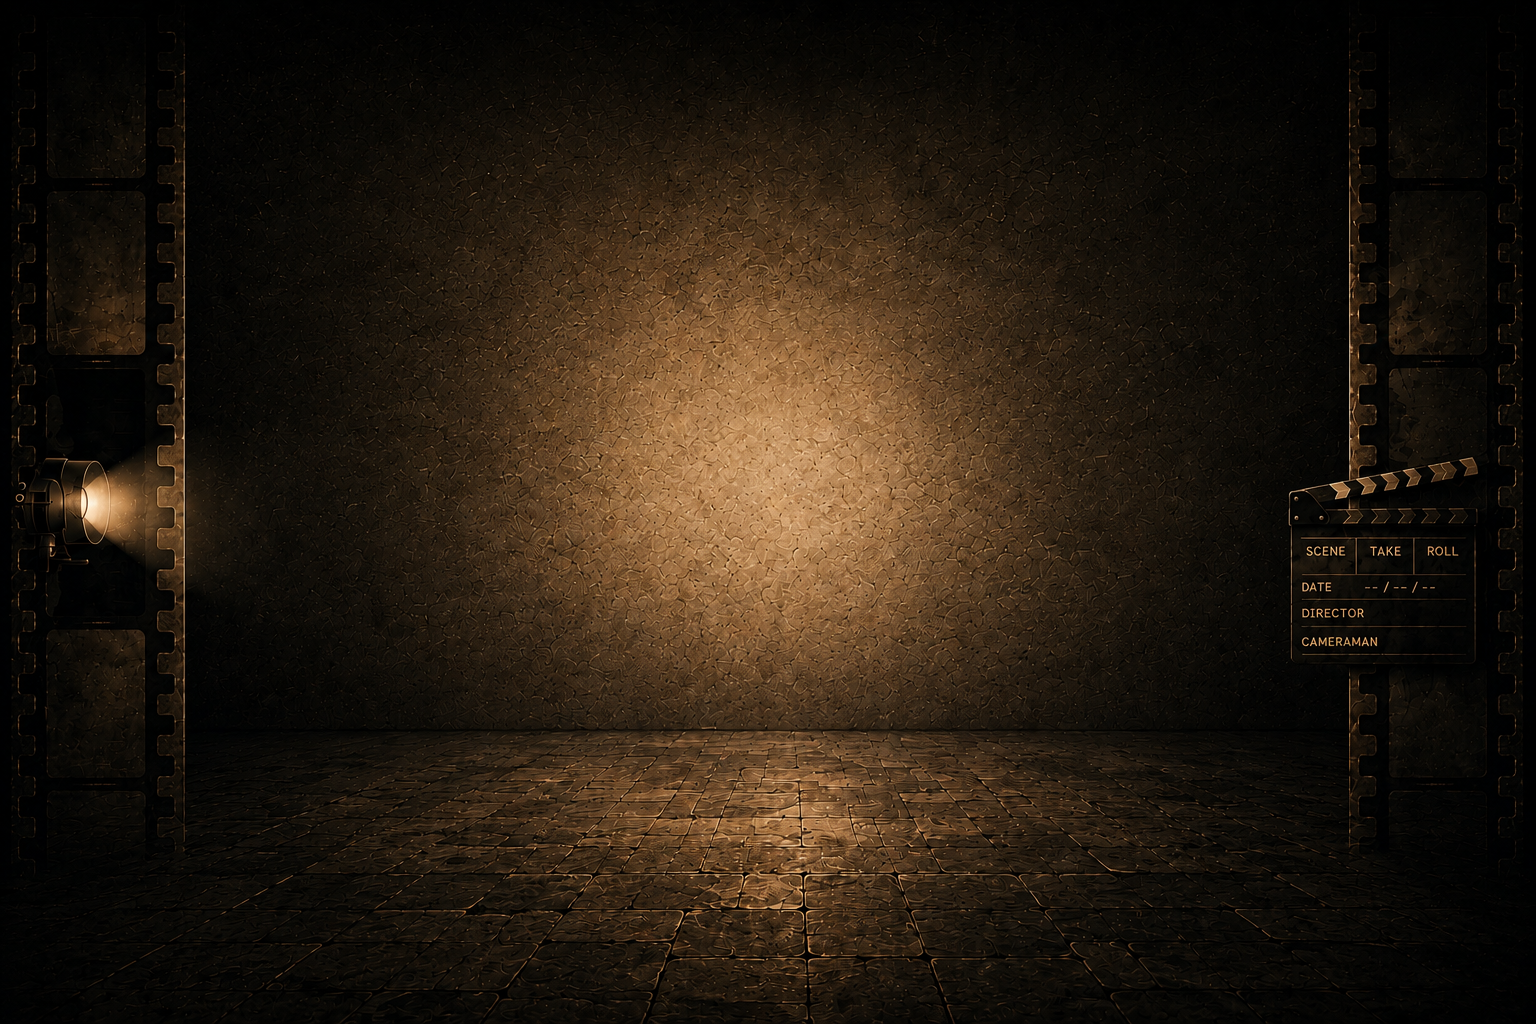
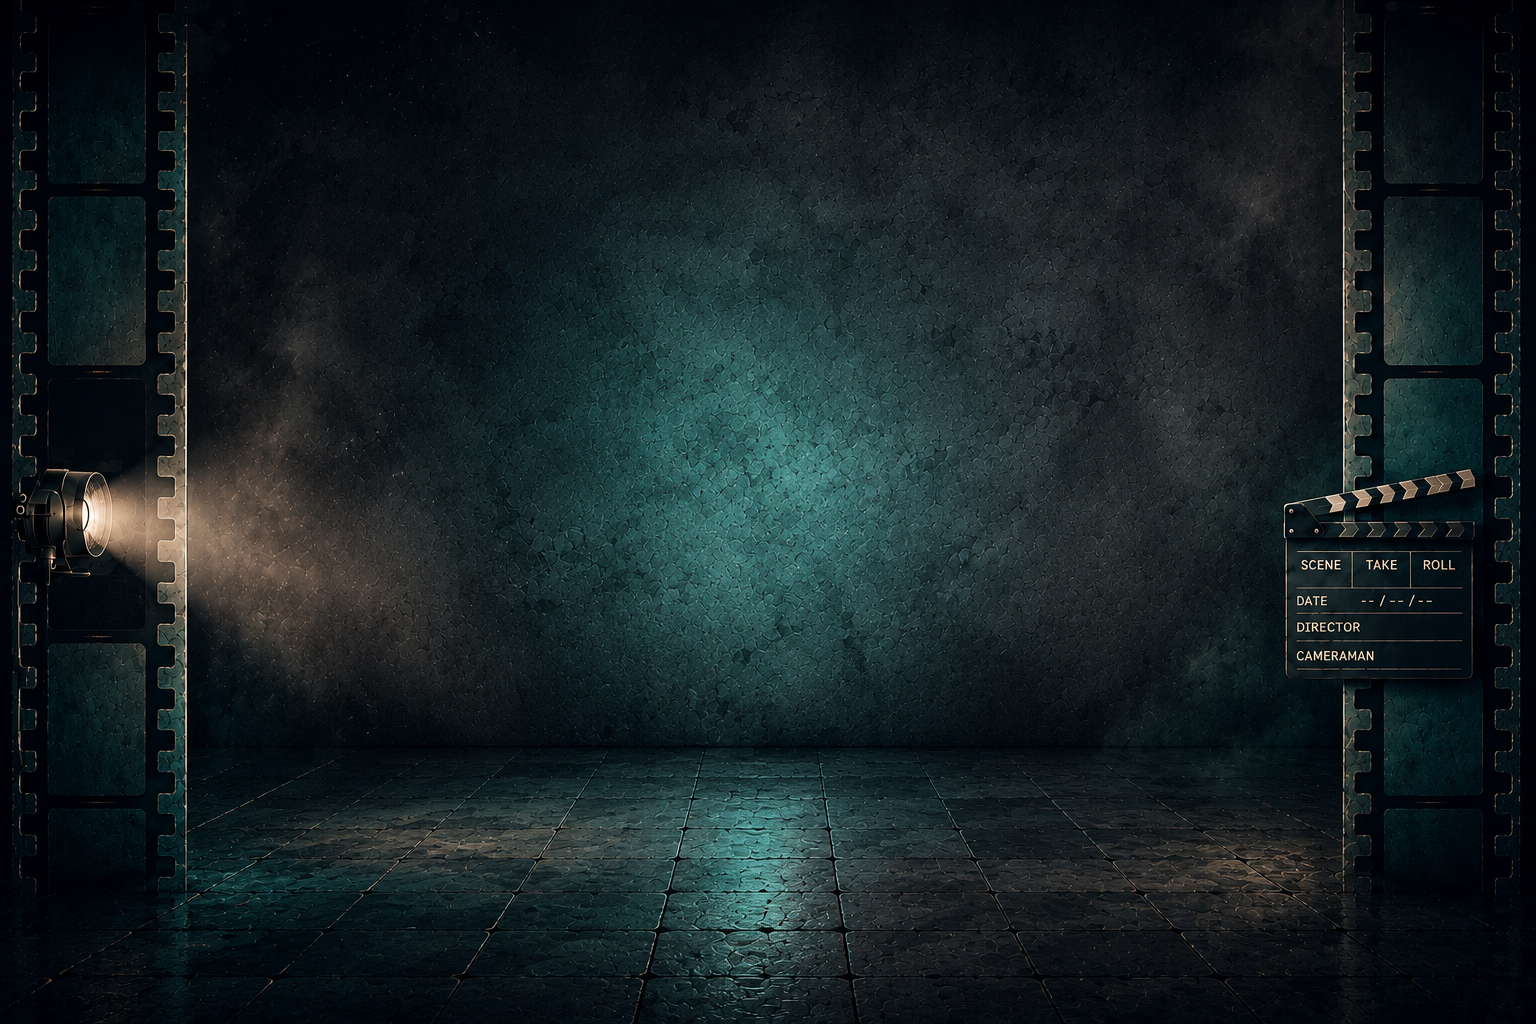
Update website

diff --git a/crew.css b/crew.css
@@ -2119,3 +2119,20 @@
         font-size: 5px !important;
     }
 }
+/* =========================================================
+   MOBILE TEAM BACKGROUND
+   ========================================================= */
+
+@media (max-width: 700px) {
+
+    .onair-team-bg {
+        background-image: url("images/crew-background-mobile.png") !important;
+
+        background-size: cover !important;
+        background-position: center top !important;
+        background-repeat: no-repeat !important;
+
+        transform: none !important;
+    }
+
+}
